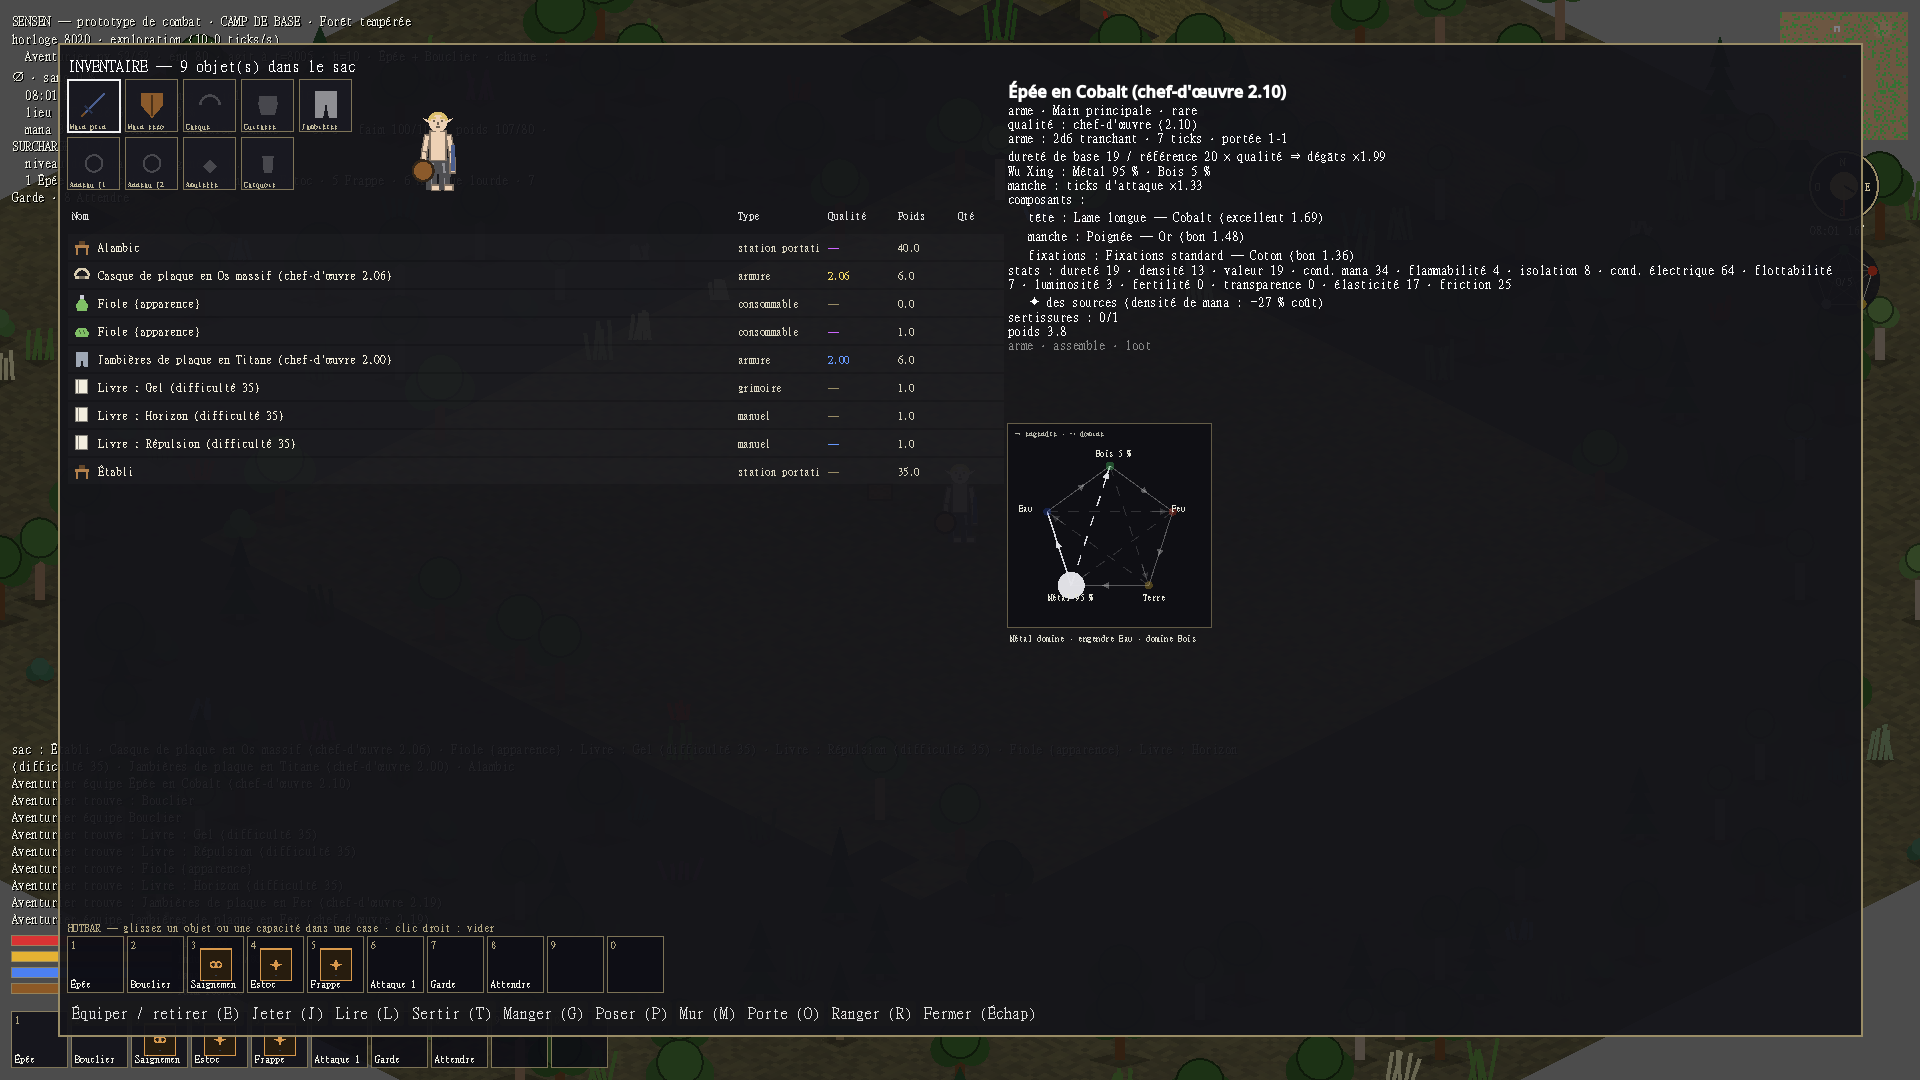
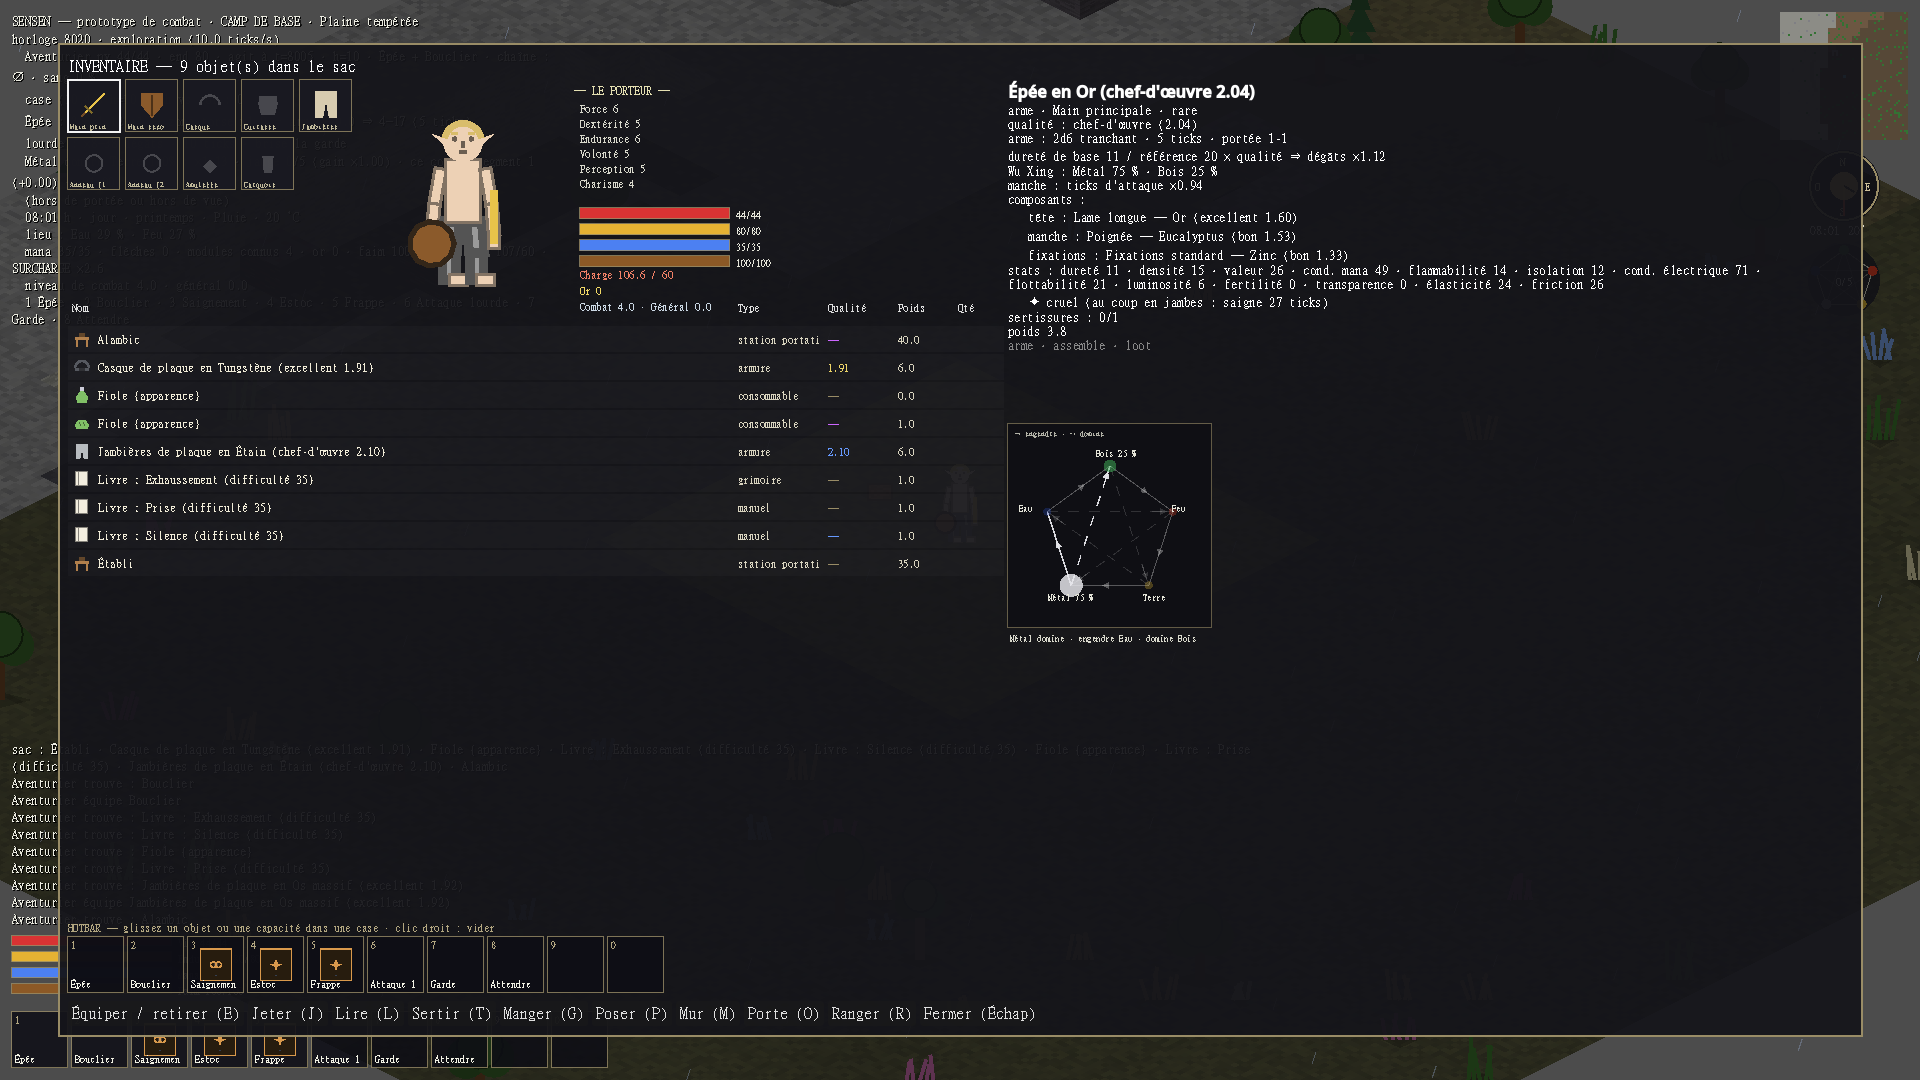
L'inventaire s'equilibre : trois colonnes et la fiche du porteur
Les slots a gauche, le personnage au centre deux fois plus grand, et a
droite une fiche qui manquait : les six stats avec ce que l'equipement
leur ajoute, les quatre jauges aux couleurs du HUD, la charge sur la
capacite (rouge en surcharge), l'or et les deux niveaux. Rien n'est
recalcule : la fiche lit l'etre, comme le HUD le fait en jeu.

diff --git a/docs/00 - Index/Vers la production.md b/docs/00 - Index/Vers la production.md
@@ -72,6 +72,7 @@ etape: 0
 > les reliefs et les lisières sur la carte elle-même. — [[Carte du monde]], [[Écrans d'interface]]
 > **Ajout du designer (2026-09-01, 4 h 00)** : 57. **Fait (2026-09-01, 7 h 30)** — coût par tuile divisé par la compétence et la charge, XP à l'usage. **La compétence Nage** — comme l'Escalade (point 56) : traverser l'eau devient **progressif**, coûteux en temps selon la profondeur, le niveau de Nage, la vitesse et la charge portée. À instruire avec l'Escalade, même famille de règles. — [[Compétences — liste]], [[Eau et liquides]]
 > **Ajout du designer (2026-09-01, 3 h 40)** : 56. **Fait (2026-09-01, 7 h 30)** — coût en dh² divisé par la compétence et la charge, plafond à 6 niveaux, XP à l'usage. **La compétence Escalade** — grimper devient **progressif** : plus le mur est haut, plus cela prend de temps, le coût se calculant sur le **niveau d'Escalade** et la **vitesse** du personnage. À instruire : ce qui est escaladable (dénivelé, paroi, arbre), l'échec et la chute, et la formule exacte. — [[Compétences — liste]], [[Zones de coup par dénivelé]], [[Progression par l'usage]]
+> **Ajout du designer (2026-09-01, 10 h 00)** : 64. **Rééquilibrer l'écran d'inventaire** — agrandir l'avatar, ajouter les **stats du personnage** et les **barres**. — [[Écrans d'interface]]
 > **Ajout du designer (2026-09-01, 9 h 30)** : 63. **Des poses articulées par le joueur** — à la création, choisir une action
 > (**inaction, attaque au corps à corps, sort, sommeil**…), **articuler le squelette** du personnage à la main, et **enregistrer** la pose :
 > le personnage la prend quand il exécute cette action. Le rig est déjà fait d'angles par segment — une pose est donc un dictionnaire

diff --git a/docs/08 - Technique/Écrans d'interface.md b/docs/08 - Technique/Écrans d'interface.md
@@ -114,6 +114,11 @@ Inventaire+équipement (avec poids), Craft (recettes des stations à portée, [[
 >
 > Deux réglages du même jour l'accompagnent. **La signature d'une classe passe toujours** : Le Passeur naît avec son Portail, Le Sceau avec sa Balise, La Mèche avec sa Bombe, même quand le banc ne leur mesure aucun dégât — un sort utilitaire n'est pas un sort mort, et chaque classe déclare désormais sa `signature` en données. **Plus d'overlay rouge au sol** pour les attaques annoncées : le « ! » au-dessus de l'être suffit à les dire. Enfin, une bête **aggro s'approche** au lieu d'attendre — hors de portée, l'IA fait un pas vers sa cible, et une cible hostile en vue interdit de flâner.
 
+> [!success] Décidé et codé le 2026-09-01 — l'inventaire rééquilibré (designer, point 64)
+> Le haut de l'inventaire était déséquilibré : neuf cases d'équipement à gauche, un personnage minuscule à droite, et rien d'autre. Il tient désormais en **trois colonnes** : les **slots d'équipement** à gauche, le **personnage en grand** au centre (deux fois plus grand qu'avant, dans un cadre qui lui laisse la place), et une **fiche du porteur** à droite — ses **six stats** avec le bonus que l'équipement leur ajoute, ses **quatre jauges** (vie, endurance, mana, faim) aux couleurs du HUD, sa **charge** sur sa capacité, son **or** et ses **niveaux**.
+>
+> Rien de neuf n'est calculé : la fiche lit `stats_eff`, `poids_de` et les jauges de l'être — ce que le HUD montrait déjà en jeu, mais qu'il fallait fermer l'inventaire pour consulter.
+
 ## Liens
 - **Dépend de** : [[Direction artistique]], [[Localisation]]
 - **Alimente** : [[Combat tactique sur grille]], [[Craft compositionnel]], [[Habitat des PNJ]], [[Entretien et taxes]]
